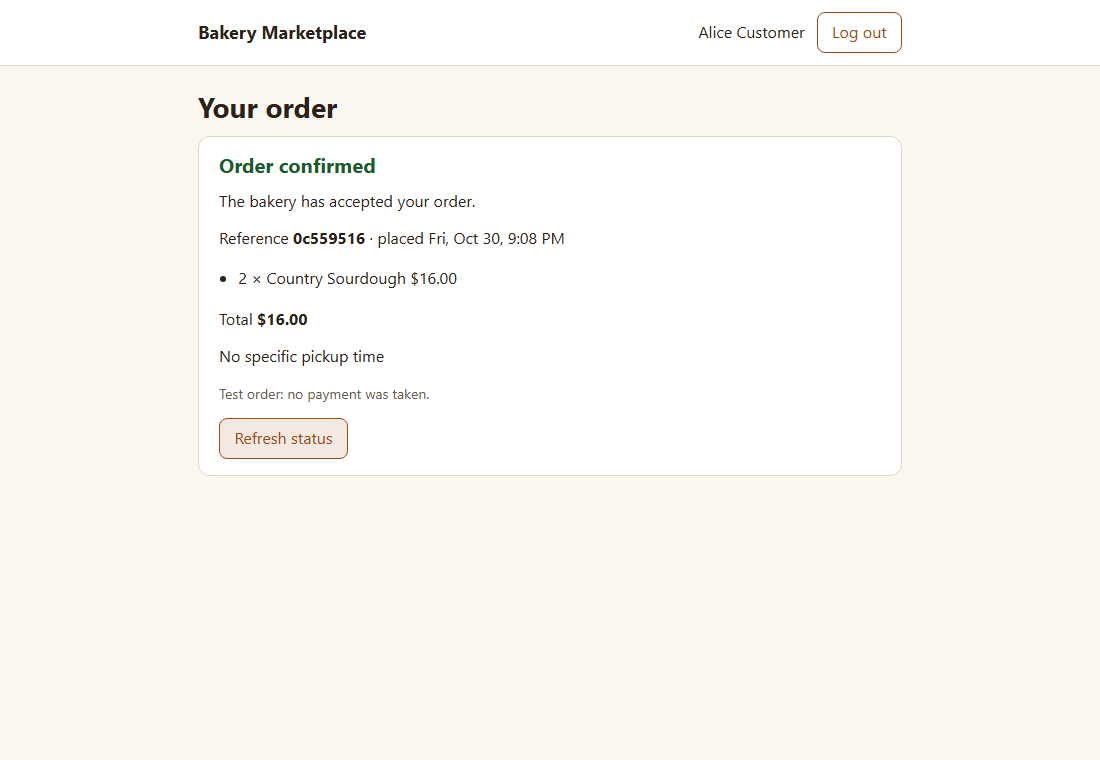
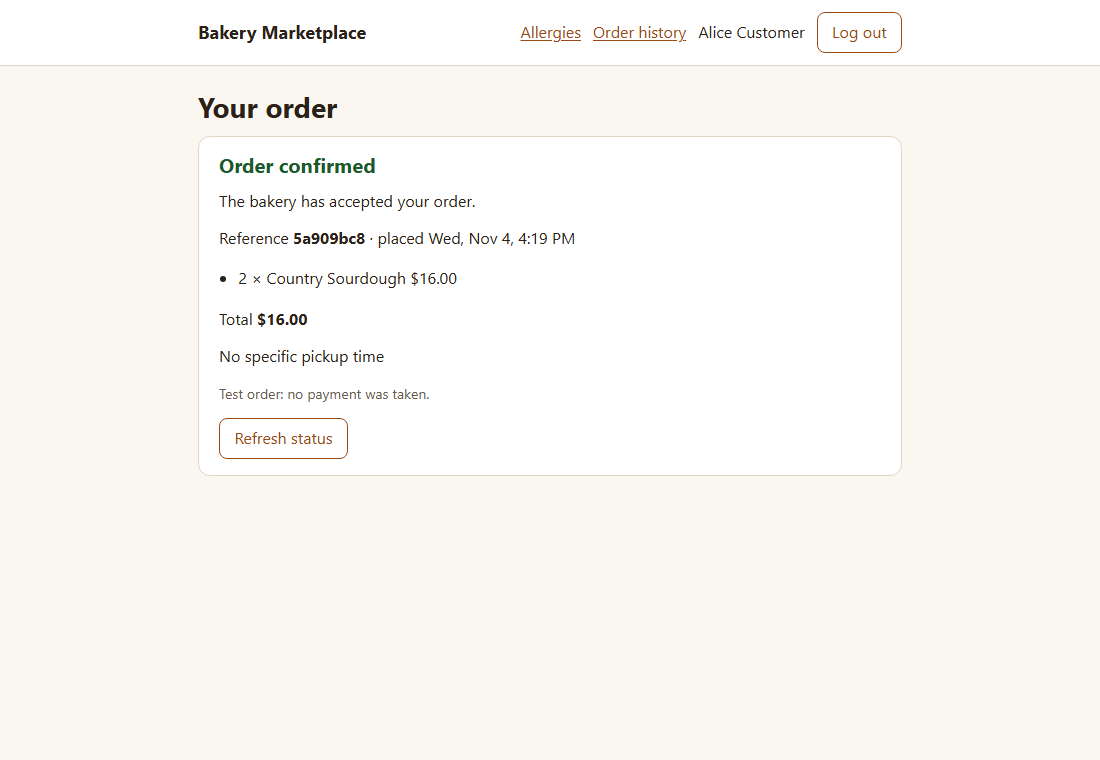
demo.md rewritten after a run: four containers, the session Redis, the personalization journey (allergy profile, warnings, order history), no stale reload claim; capture-journey takes nine screenshots
Run 2026-11-04: demo.mjs up, capture-journey walked all nine steps (first checkout 2.7 s). The Enter and Ctrl+C stop path was not exercised.

Changed region(s): [[0.1855, 0.5447, 0.34, 0.6053], [0.2473, 0.3026, 0.5255, 0.3329], [0.4636, 0.0303, 0.6182, 0.0605]]

diff --git a/docs/operations/demo.md b/docs/operations/demo.md
@@ -1,18 +1,18 @@
 # Demo: run slice 1 and show it
 
-> **Status:** Current · written and run 2026-10-30 on Windows 11 with Docker Desktop (`scripts/dev/demo.mjs`, 87 s from start to a stopped stack with the web build; screenshots by `scripts/dev/capture-journey.mjs`). Nothing is deployed and the payment is a test stub. A run on a machine with nothing cached, and a person following this page without help, have not been done (`WI-DEMO-001`).
+> **Status:** Current · rewritten 2026-11-04 after a run on Windows 11 with Docker Desktop: `scripts/dev/demo.mjs` started the stack and printed its guide, and `scripts/dev/capture-journey.mjs` (extended the same day) walked the journey below against it and took all nine screenshots; the first checkout took 2.7 s. The demo was stopped by killing its process and running `docker compose down` by hand, so the Enter and Ctrl+C path was not exercised this time. Start-up time was not re-measured (the 87 s of 2026-10-30 predates the session Redis and the personalization pages). Nothing is deployed and the payment is a test stub. A run on a machine with nothing cached, and a person following this page without help, have not been done (`WI-DEMO-001`).
 
-What it shows: a customer browses listings with stock and allergens, chooses a quantity or an option, logs in through the local mock identity issuer, places a test order, and watches its status. Behind that: a Next.js app, a GraphQL BFF, a catalog service and an ordering service, with Cosmos, Redis Streams and the issuer in Docker. How the pieces work is in [the request path](../architecture/request-path.md); the commands for running by hand are in [local development](local-dev.md#run-slice-1).
+What it shows: a customer browses listings with stock, allergens and tags, chooses a quantity or an option, logs in through the local mock identity issuer, saves an allergen profile, sees allergy warnings on browse and a warning with a confirmation at checkout, places a test order, watches its status and finds it in the order history. Behind that: a Next.js app, a GraphQL BFF, a catalog service and an ordering service, with Cosmos, two Redis instances (domain events; sessions) and the issuer in Docker. How the pieces work is in [the request path](../architecture/request-path.md); the commands for running by hand are in [local development](local-dev.md#run-slice-1); every script is indexed in [scripts and commands](scripts.md). The Android app has its own demo, `node scripts/dev/mobile-demo.mjs` (see the app's [README](../../apps/mobile-customer/README.md)).
 
 ## Start
 
-You need Docker (running), the .NET 10 SDK, Node 24 or later and git, and `npm ci` done once in `apps/web-customer` and `services/graphql-bff`. From the repository root:
+You need Docker (running), the .NET 10 SDK, Node 24 or later and git, and `npm ci` done once in `apps/web-customer`, `services/graphql-bff`, `packages/web-session` and `packages/customer-core`. From the repository root:
 
 ```
 node scripts/dev/demo.mjs
 ```
 
-It creates the local secrets (a git-ignored `.env`), starts the three Docker containers, seeds the catalog, starts the four processes, builds the web app, warms the stack and prints a guide. The first run also builds the .NET projects. Ports 3000, 4100, 5200 and 5300 must be free; the script refuses to start otherwise. Press Enter or Ctrl+C to stop; everything is torn down and the data is lost (`--keep` leaves Docker running).
+It creates the local secrets (a git-ignored `.env`), starts the four Docker containers (Redis for events, Redis for sessions, the Cosmos emulator, the mock issuer), seeds the catalog, starts the three host services (catalog, ordering, BFF), builds and starts the web app, warms the stack and prints a guide. The first run also builds the .NET projects. Ports 3000, 4100, 5200 and 5300 must be free; the script refuses to start otherwise. Press Enter or Ctrl+C to stop; everything is torn down and the data is lost (`--keep` leaves Docker running).
 
 ## Where things run
 
@@ -29,9 +29,11 @@ flowchart LR
     I["mock-oidc issuer :5100"]
     D[("Cosmos emulator :8081")]
     R[("redis-events :6379")]
+    RC[("redis-cache :6380<br/>sessions")]
   end
   B --> W
-  B -- "login (PKCE)" --> I
+  B -- "login page" --> I
+  W -- "code exchange (PKCE), renewal" --> I
   W --> G
   G --> C
   G --> O
@@ -41,28 +43,32 @@ flowchart LR
   O --> D
   O -- "events" --> R
   C -- "events" --> R
+  W -- "login sessions" --> RC
 ```
 
-The BFF forwards the caller's token unchanged and every service validates it itself against the issuer. `scripts/dev/demo.mjs` starts everything above; `docker compose up` alone starts only the three containers; `scripts/ci/skeleton-smoke.mjs` starts the same stack and runs the browser journeys instead of waiting.
+The BFF forwards the caller's token unchanged and every service validates it itself against the issuer. `scripts/dev/demo.mjs` starts everything above; `docker compose up -d` alone starts only the three always-on containers (`--profile with-redis` adds the session Redis); `scripts/ci/skeleton-smoke.mjs` starts the same stack and runs the browser journeys instead of waiting.
 
 ## Checklist: show the journey
 
 | Step | Do | Expect |
 |---|---|---|
-| 1. Start | `node scripts/dev/demo.mjs`, wait for the guide (about 90 s with caches warm) | `http://localhost:3000`, the mock users, the steps |
-| 2. Browse | Open the URL | Six listings with price, stock and allergens: "Blueberry Oat Muffin" is sold out, "Almond Croissant" is low stock |
+| 1. Start | `node scripts/dev/demo.mjs`, wait for the guide | `http://localhost:3000`, the mock users, the steps |
+| 2. Browse | Open the URL | Six listings with price, stock, allergens and tags: "Blueberry Oat Muffin" is sold out, "Almond Croissant" is low stock. The tag chips filter the list |
 | 3. Choose | Open "Country Sourdough"; pick quantity 2 (or the sesame option) | The estimate updates; options show their allergens ("contains sesame") |
-| 4. Add | Add to order, then open "Your order" | The cart shows the line; checkout asks you to log in |
-| 5. Log in | Log in | The mock issuer's own page; choose "Login as Alice Customer (Customer)" |
-| 6. Order | Choose a pickup time if you like, then "Place test order" | The first checkout takes several seconds (7.0 s measured); later ones well under a second |
+| 4. Add | Add to order, then open "Your order" | The cart shows the line with what it contains; checkout asks you to log in |
+| 5. Log in | Log in | The mock issuer's own page; choose "Login as Alice Customer (Customer)". Her name then shows in the header |
+| 6. Order | Choose a pickup time if you like, then "Place test order" | The first checkout is slower than later ones (2.7 s on the 2026-11-04 run, 7.0 s on 2026-10-30) |
 | 7. Status | Read the order page | A plain order is "Order confirmed" by itself; an order with an option or a pickup time waits for the bakery. "Test order: no payment was taken." |
-| 8. Stop | Enter or Ctrl+C | Processes stopped, containers removed |
+| 8. Allergies | Open "Allergies", mark Tree nuts as "Allergy", save. Go back to the listings | "Almond Croissant" now carries allergy warnings, for the item and for its "Extra almonds" option. A tick box can hide items that list an allergen of your profile |
+| 9. Warn | Add "Almond Croissant" to the order, open "Your order" | An allergy warning names the line and the allergen; "Place test order" stays off until "I have read this and still want to order" is ticked; "Tell the bakery" lists Tree nuts (ticked) so the bakery sees it with the order |
+| 10. History | Open "Order history" | The order from step 6 with its status and total |
+| 11. Stop | Enter or Ctrl+C | Processes stopped, containers removed |
 
-What not to expect: there are no vendor, admin or queue screens (those apps are empty), no search, no real payment, and the look is one small stylesheet (light and dark by system setting), not a designed brand. Reloading an order page ends the login (register item 24), so the page asks again.
+What not to expect: this demo does not start the vendor's live queue screen (`apps/web-queue-display`, port 3100, which exists and is exercised by `scripts/ci/skeleton-smoke.mjs` and `scripts/dev/load-test.mjs`), so nothing here moves an order past "waiting for the bakery"; the admin app is empty; there is no free-text search and no real payment; and the look is one small stylesheet (light and dark by system setting), not a designed brand. A reload keeps the login (the session lives on the server, ADR-0019), and the allergen profile you save stays until the stack is torn down.
 
 ## Screenshots
 
-Taken by `node scripts/dev/capture-journey.mjs` against the running demo (after the styling pass of 2026-10-30, register item 97).
+Taken by `node scripts/dev/capture-journey.mjs` against the running demo (2026-11-04; the script places one order and saves an allergy profile for Alice, nothing more).
 
 | Browse | Listing |
 |---|---|
@@ -74,6 +80,14 @@ Taken by `node scripts/dev/capture-journey.mjs` against the running demo (after 
 
 ![An order confirmed, 2 × Country Sourdough, $16.00](demo/05-order.png)
 
+| Allergen profile | Warnings on browse |
+|---|---|
+| ![The Allergies page with Tree nuts set to Allergy](demo/06-preferences.png) | ![The listings with allergy warnings on Almond Croissant](demo/07-browse-conflicts.png) |
+
+| Warning and confirmation at checkout | Order history |
+|---|---|
+| ![Your order with an allergy warning, the confirmation box and Tell the bakery](demo/08-checkout-allergies.png) | ![The order history with the order just placed](demo/09-orders.png) |
+
 ## If something goes wrong
 
 | Symptom | Likely cause and what to do |
@@ -82,10 +96,12 @@ Taken by `node scripts/dev/capture-journey.mjs` against the running demo (after 
 | Stuck at the environment check | Docker is not running or is still pulling images; `docker compose ps` and `node scripts/dev/check-env.mjs --wait 180` |
 | `<name> did not become healthy` | Read `artifacts/demo/<name>.log` (catalog, ordering, bff, web) |
 | The listing page shows no listings | The seed did not run or the catalog is down; stop and start again (data is not kept) |
-| The first checkout seems stuck | It takes about 7 s the first time (service token, first priced checkout); wait |
+| The first checkout seems stuck | It is slower the first time (service token, first priced checkout; 2.7 to 7 s measured); wait |
 
 ## Measured and not measured
 
-- The script was run once from start to stop, with `--stop-after 20`: 87 s, exit 0, no containers left. The warm-up requests (issuer metadata, the home page, pickup times) all returned 200, but the first checkout still took 7.0 s afterwards: the warm-up does not cover the first priced checkout (register item 98).
+- **2026-11-04:** `demo.mjs` started the stack and printed its guide (the warm-up took 0.1 s, everything was cached), and `capture-journey.mjs` then ran all nine steps without failing: login, an order (first checkout 2.7 s, status "Order confirmed"), saving the tree-nut allergy, the warnings on browse, the warning and the unticked confirmation at checkout (the button was not clicked), and the order history. The screenshots above come from that run; the agent that took them looked at three (browse, browse with the warnings, the checkout warning) and not at the other six. Stopping was done by killing the process and `docker compose down`, not by Enter.
+- **2026-10-30:** the script was run once from start to stop, with `--stop-after 20`: 87 s, exit 0, no containers left. The first checkout then took 7.0 s even after the warm-up, which does not cover the first priced checkout (register item 98). Both numbers are one run each on one machine.
 - Docker images, NuGet packages and npm packages were already cached. A first run on a machine with nothing cached will take longer; it has not been timed (`WI-DEMO-001`).
+- Not run: the acknowledgement being ticked and the order with the allergen being placed in this demo (the browser suites and the real-stack journeys cover it), a reload keeping the login (ADR-0019 and its tests, not re-run here), the vendor's queue screen.
 - Not done: a person who did not write this following the page, and timing how long a visitor takes to find the evidence from the README (`WI-DEMO-001`, rows G-H07 and G-H09).

diff --git a/docs/operations/scripts.md b/docs/operations/scripts.md
@@ -34,7 +34,7 @@ Ports: 3000 customer web, 3100 queue display, 4000 mock BFF (browser suites), 41
 |---|---|---|
 | `node scripts/dev/demo.mjs [--keep] [--stop-after N]` | The **web** slice: browse with stock, log in, add to order, place a test order, watch its status. Starts everything, warms it, prints a guide, waits for Enter. | `docs/operations/demo.md`. Ports 3000, 4100, 5200, 5300 must be free. No test hooks (never sets `ENABLE_TEST_HOOKS`). Needs `npm ci` in `apps/web-customer`, `services/graphql-bff` and `packages/web-session`. |
 | `node scripts/dev/mobile-demo.mjs [--no-build] [--keep]` | The **Android** app on the `bakery_pixel` emulator (window shown): the same journey on the phone, restart without login, sign-out. Boots the emulator, starts the stack **without** the test hook, builds and installs a **non-test** build, opens the app, waits for Enter. | First build about ten minutes. Needs JDK 17 and the Android SDK (`apps/mobile-customer/README.md`). Maestro is not needed. |
-| `node scripts/dev/capture-journey.mjs [folder]` | Screenshots of the web journey for `demo.md` against a **running** demo; places one real test order. | Needs Playwright's Chromium in `apps/web-customer`. |
+| `node scripts/dev/capture-journey.mjs [folder]` | Nine screenshots of the web journey for `demo.md` against a **running** demo, including the allergen profile, the warnings and the order history; places one real test order and saves a tree-nut allergy for Alice (nothing else). | Needs Playwright's Chromium in `apps/web-customer`. |
 
 ## 4. Tests
 
